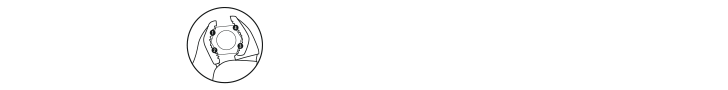
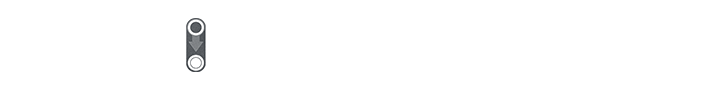
finished 728x90

Changed region(s): [[0.2418, 0.0667, 0.3626, 0.9333], [0.3324, 0.7556, 0.3626, 0.8667]]

diff --git a/Irwin_WC/728x90/Animation.js b/Irwin_WC/728x90/Animation.js
@@ -41,6 +41,7 @@ home_animation = (function() {
 			});
 	
 		TweenLite.to(threeX, 0, {scaleX:2.5, scaleY:2.5});
+		TweenLite.to(newCta, 0, {scaleX:2.5, scaleY:2.5});
 		TweenLite.to(tool, 0, {scaleX:2.5, scaleY:2.5});
 		TweenLite.to(gripping_power, 0, { left:350, scaleX:5.5, scaleY:5.5});
 
@@ -57,6 +58,7 @@ home_animation = (function() {
 		TweenLite.to(logo, 0.5, {opacity:1, delay: 0.3});		
 		TweenLite.to(legal_line, 0.5, {opacity:1, delay: 0.4});	
 		TweenLite.to(threeX, 0.5, {opacity:1, scaleX:1, scaleY:1, delay: 0.5, ease: Expo.easeOut});	
+		TweenLite.to(newCta, 0.5, {opacity:1, scaleX:1, scaleY:1, delay: .7, ease: Expo.easeOut});	
 		TweenLite.to(gripping_power, 0.5, {opacity:1, left:0, scaleX:1, scaleY:1, left:0, delay: 0.8, ease: Expo.easeOut});		
 		TweenLite.delayedCall(3, frame2);
 	}
@@ -66,8 +68,9 @@ home_animation = (function() {
 
 		TweenLite.to(legal_line, 0.3, {opacity:0, delay: 0});	
 
-		TweenLite.to(threeX, 0.2, {opacity:0, });	
-		TweenLite.to(gripping_power, 0.2, {opacity:0, });		
+		TweenLite.to(threeX, 0.2, {opacity:0 });	
+		TweenLite.to(newCta, 0.2, {opacity:0 });	
+		TweenLite.to(gripping_power, 0.2, {opacity:0 });		
 		TweenLite.delayedCall(0.3, frame3);
 		
 	}

diff --git a/Irwin_WC/728x90/style.css b/Irwin_WC/728x90/style.css
@@ -24,7 +24,7 @@ body{
 	cursor: pointer;
 }
 
-#threeX, #legal_line, #tool, #logo, #gripping_power, #circle_tool, #four_contact, #for_maximum {
+#threeX, #legal_line, #tool, #logo, #newCta, #gripping_power, #circle_tool, #four_contact, #for_maximum {
 position: absolute;
 left:0px;
 top:0px;
@@ -48,7 +48,7 @@ z-index:0;
     left:-300px;
 }
 
-#logo {
+#logo, #newCta {
 
 	z-index:1;
 }

diff --git a/Irwin_WC/728x90/main.html b/Irwin_WC/728x90/main.html
@@ -18,6 +18,7 @@
 <div id="threeX_blur"><img src="3x.png"></div>
 <div id="threeX"><img src="3x.png"></div>
 <div id="logo"><img src="logo.png"></div>
+<div id="newCta"><img src="new.png"></div>
 <div id="legal_line"><img src="legal_line.png"></div>
 <div id="tool_blur"><img src="tool.png"></div>
 <div id="tool"><img src="tool.png"></div>
